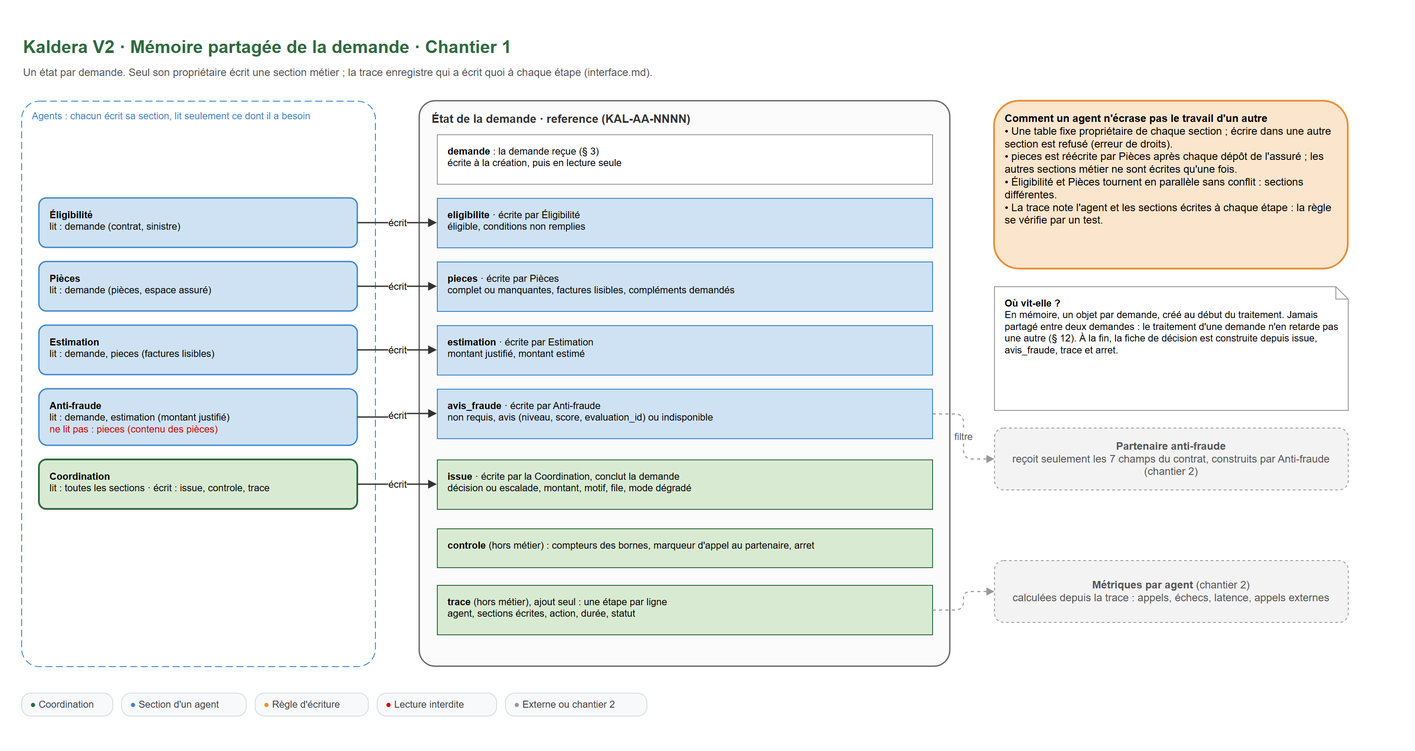
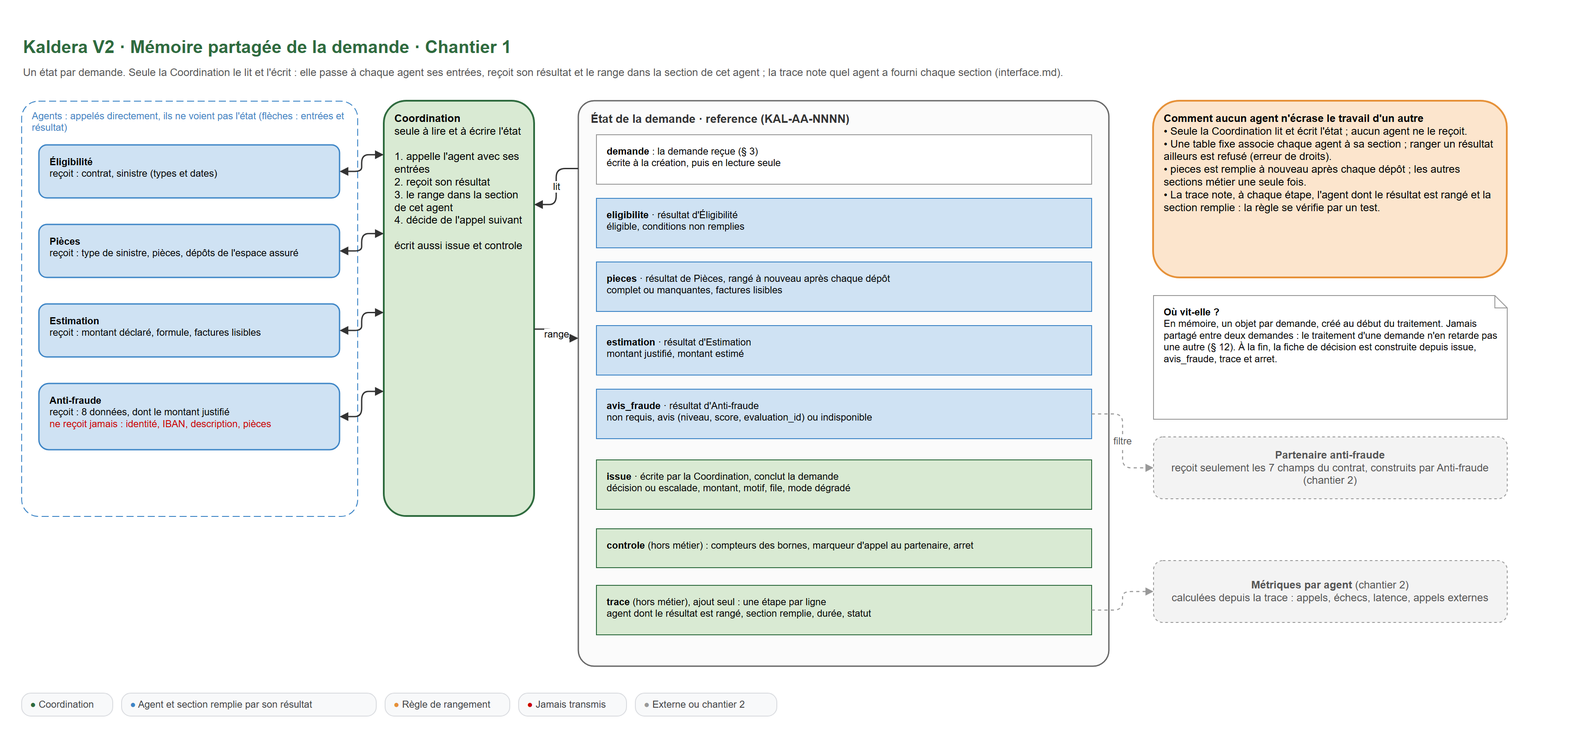
docs(chantier 1): la Coordination seule lit et ecrit l'etat de la demande
Retour du formateur sur la memoire partagee et le declenchement :
- la Coordination appelle chaque agent directement, lui passe ses entrees,
  recoit son resultat et le range dans la section de cet agent
- nouveau tableau des entrees par agent ; question du type de sinistre
  en texte libre (non : champ structure, § 3) ; agent ou outil
- droits sur la memoire refaits ; preuves de [E2] adaptees ;
  la trace reste au nom de l'agent (interface.md)
- schemas A (appel + entrees, resultat, mode degrade), 1 et 3 redessines

Changed region(s): [[0.0, 0.0312, 0.6562, 0.8729], [0.6562, 0.1247, 0.9688, 0.8729], [0.0312, 0.9353, 0.4688, 0.9665]]

diff --git a/chantier-1-equipe-orchestration.md b/chantier-1-equipe-orchestration.md
@@ -82,7 +82,7 @@ Questions associées :
 ### Rôles et frontières
 
 - [x] Quels sont exactement les agents ?
-  **Réponse.** Cinq, un par section métier de `interface.md` : **Éligibilité** (`eligibilite`), **Pièces justificatives** (`pieces`), **Estimation** (`estimation`), **Anti-fraude**, liaison avec le partenaire (`avis_fraude`), et la **Coordination** (`issue`). « Une section métier n'est écrite que par un seul agent, et un agent n'écrit qu'une seule section métier. »
+  **Réponse.** Cinq, un par section métier de `interface.md` : **Éligibilité** (`eligibilite`), **Pièces justificatives** (`pieces`), **Estimation** (`estimation`), **Anti-fraude**, liaison avec le partenaire (`avis_fraude`), et la **Coordination** (`issue`). « Une section métier n'est écrite que par un seul agent, et un agent n'écrit qu'une seule section métier. » Chaque section est remplie par le résultat d'un seul agent ; c'est la Coordination, seule à lire et à écrire l'état, qui l'y range (section 5).
   Le brief cite quatre agents (éligibilité, pièces, estimation, coordination). `interface.md` en impose un cinquième : il y a cinq sections métier, un agent par section, et la Coordination écrit déjà `issue`. La section `avis_fraude` revient donc à un agent de liaison avec le partenaire. Cet agent n'émet aucun avis : il calcule les indicateurs, appelle le partenaire et contrôle sa réponse.
 - [x] Sous quel nom chaque agent apparaît-il dans la trace ?
   **Réponse.** Un nom fixe par agent, utilisé dans le champ `agent` de la trace et comme clé des métriques de `traiter_lot` (`interface.md`) : `coordination`, `eligibilite`, `pieces`, `estimation`, `antifraude`. Changer un nom casserait la lecture des métriques.
@@ -93,7 +93,7 @@ Questions associées :
 - [x] Qui rend la décision finale, et qui rédige le motif ?
   **Réponse.** La Coordination, qui écrit la section `issue` en appliquant les règles du § 10 dans l'ordre, et rédige le motif destiné à l'assuré ou au gestionnaire (§ 11).
 - [x] Comment prouver par un test qu'un agent ne sort pas de son rôle ?
-  **Réponse.** Deux preuves. La trace : pour chaque étape, `ecrit` liste les sections écrites ; un test vérifie que chaque agent n'écrit que sa section, sur les 28 scénarios. Et un test unitaire : un agent qui tente d'écrire la section d'un autre reçoit une erreur de droits.
+  **Réponse.** Deux preuves. La trace : pour chaque étape, `agent` nomme l'agent dont le résultat a été rangé et `ecrit` la section remplie ; un test vérifie, sur les 28 scénarios, que chaque section n'est remplie que par son agent. Et deux tests unitaires : la Coordination refuse de ranger le résultat d'un agent dans une autre section (erreur de droits), et aucun agent ne reçoit l'état complet.
 
 ### Le contrat de chaque agent
 
@@ -112,11 +112,25 @@ def verifier_eligibilite(demande: Demande) -> ResultatEligibilite:
 
 | Agent | Entrée | Sortie | Erreurs possibles | Docstring (une phrase) |
 |---|---|---|---|---|
-| Éligibilité | contrat et sinistre de la demande | éligible oui ou non ; conditions non remplies | données incomplètes | Dit si le contrat couvre le sinistre, sans chiffrer |
-| Pièces justificatives | pièces, type de sinistre, dépôts de l'espace assuré | complet, ou pièces manquantes ou illisibles ; factures lisibles ; compléments demandés | données incomplètes | Dit si les pièces exigées sont présentes, lisibles et du type attendu, et demande les compléments quand la Coordination le lui confie, sans conclure la demande |
-| Estimation | montant déclaré, formule, factures lisibles | montant justifié, montant retenu, montant estimé | données incomplètes | Calcule le montant remboursable, franchise et plafond compris, sans juger la fraude |
-| Anti-fraude | champs utiles de la demande, montant justifié | non requis ; ou avis (niveau, score, indicateurs, `evaluation_id`) ; ou indisponible avec la raison | délai dépassé, erreur du service, réponse non conforme : toutes rendent « indisponible », jamais une exception | Calcule les indicateurs F1 à F4 et, si l'un est présent, obtient l'avis du partenaire en un seul appel, sans jamais émettre d'avis lui-même |
-| Coordination | toutes les sections | section `issue` ; fiche de décision | borne atteinte, agent en échec : toutes deux mènent à une escalade motivée | Délègue chaque contrôle, applique les règles de décision dans l'ordre et conclut, sans refaire aucun contrôle |
+| Éligibilité | contrat et sinistre, passés par la Coordination | éligible oui ou non ; conditions non remplies | données incomplètes | Dit si le contrat couvre le sinistre, sans chiffrer |
+| Pièces justificatives | pièces, type de sinistre, dépôts de l'espace assuré, passés par la Coordination | complet, ou pièces manquantes ou illisibles ; factures lisibles ; compléments demandés | données incomplètes | Dit si les pièces exigées sont présentes, lisibles et du type attendu, et demande les compléments quand la Coordination le lui confie, sans conclure la demande |
+| Estimation | montant déclaré, formule, factures lisibles, passés par la Coordination | montant justifié, montant retenu, montant estimé | données incomplètes | Calcule le montant remboursable, franchise et plafond compris, sans juger la fraude |
+| Anti-fraude | huit données passées par la Coordination, dont le montant justifié | non requis ; ou avis (niveau, score, indicateurs, `evaluation_id`) ; ou indisponible avec la raison | délai dépassé, erreur du service, réponse non conforme : toutes rendent « indisponible », jamais une exception | Calcule les indicateurs F1 à F4 et, si l'un est présent, obtient l'avis du partenaire en un seul appel, sans jamais émettre d'avis lui-même |
+| Coordination | l'état de la demande, qu'elle est seule à lire | section `issue`, rangement des résultats ; fiche de décision | borne atteinte, agent en échec : toutes deux mènent à une escalade motivée | Délègue chaque contrôle, applique les règles de décision dans l'ordre et conclut, sans refaire aucun contrôle |
+
+### Les entrées passées par la Coordination
+
+La Coordination est la seule à lire l'état de la demande. Elle déclenche chaque agent par un appel direct et lui passe seulement les données dont il a besoin ; l'agent renvoie son résultat, que la Coordination range dans la section de cet agent (section 5).
+
+| Agent | Données passées par la Coordination | Ce que l'agent ne reçoit jamais |
+|---|---|---|
+| Éligibilité | statut du contrat, cotisations, formule, date de souscription ; type de sinistre, date de survenance, date de déclaration | identité, IBAN, description, pièces |
+| Pièces justificatives | type de sinistre, pièces, dépôts de l'espace assuré | identité, IBAN, description, montants estimés |
+| Estimation | montant déclaré, formule, factures lisibles (résultat de Pièces) | identité, IBAN, description |
+| Anti-fraude | référence, type de sinistre, date de survenance, montant déclaré, date de souscription, sinistres sur 12 mois, code postal, montant justifié (résultat de l'Estimation) | identité, IBAN, description, pièces |
+
+- [x] Le type de sinistre est-il saisi en texte libre ?
+  **Réponse.** Non (§ 3) : `sinistre.type` est un champ structuré à quatre valeurs, et la description libre n'entre dans aucune règle. Si le type devait un jour être déduit du texte libre, ce serait un jugement : une étape de qualification en amont, candidate à un LLM avec un contrôle contre les quatre valeurs, et non une règle de l'Éligibilité.
 
 ### Garde-fous et métriques de bon fonctionnement, par agent
 
@@ -126,7 +140,7 @@ def verifier_eligibilite(demande: Demande) -> ResultatEligibilite:
 | Pièces justificatives | demandes de complément bornées (2 au plus) ; une demande de complément n'est faite que sur délégation de la Coordination, après le résultat de l'Éligibilité | part des demandes avec complément ; échecs |
 | Estimation | le montant n'est jamais négatif, jamais supérieur au plafond de la formule, arrondi au centime (NOM-05 le vérifie) | échecs ; latence |
 | Anti-fraude | filtre sortant en liste blanche ; un seul appel par dossier (marqueur écrit par la Coordination avant la délégation) ; abandon à 3 s ; réponse contrôlée avant usage (chantier 2) | appels externes, réponses écartées, part des demandes en mode dégradé |
-| Coordination | bornes vérifiées avant chaque délégation ; seule à écrire `issue` | étapes consommées par demande, bornes atteintes (`arret`), part d'escalades |
+| Coordination | bornes vérifiées avant chaque délégation ; seule à lire et à écrire l'état ; range chaque résultat dans la seule section de son agent | étapes consommées par demande, bornes atteintes (`arret`), part d'escalades |
 
 ### Le point ambigu
 
@@ -161,11 +175,11 @@ Dans ce dossier, un agent est une unité de responsabilité : un rôle, un contr
 
 | Agent | Contrôles | Nature | Où un LLM aurait du sens, en production | Place dans l'architecture et la mémoire |
 |---|---|---|---|---|
-| Éligibilité | E1 contrat actif, E2 cotisations à jour, E3 carence de 30 jours, E4 déclaration sous 30 jours (5 pour un vol), E5 garantie de la formule | règles simples : un statut, une date, une liste | aucun | écrit `eligibilite`, lue par la Coordination (règle 1) ; tourne en parallèle de Pièces |
-| Pièces justificatives | présence, lisibilité, type attendu ; demande de complément | présence et type : règles. Lisibilité : fournie par un champ dans les scénarios (`lisible`, § 3) | lire une facture scannée, vérifier qu'une photo montre bien le sinistre déclaré : le cas le plus solide pour un LLM | écrit `pieces`, seule section réécrite après chaque dépôt ; fournit les factures lisibles à l'Estimation |
-| Estimation | montant justifié, retenu, estimé ; franchise ; plafond | calcul | aucun : un montant calculé par un LLM serait un risque | écrit `estimation` ; fournit le montant justifié à l'Anti-fraude (F4) |
-| Anti-fraude | indicateurs F1 à F4 ; un appel au partenaire ; contrôle de la réponse | F1 à F4 : des seuils. L'avis : un jugement, rendu par le partenaire | le jugement existe déjà, chez le partenaire | écrit `avis_fraude` ; seul agent qui sort du système ; ne voit ni l'identité ni l'IBAN |
-| Coordination | bornes, règles du § 10 dans l'ordre, issue, motif | règles ordonnées | rédiger le motif lisible (§ 11), hors décision | écrit `issue` et `controle` ; seule à conclure |
+| Éligibilité | E1 contrat actif, E2 cotisations à jour, E3 carence de 30 jours, E4 déclaration sous 30 jours (5 pour un vol), E5 garantie de la formule | règles simples : un statut, une date, une liste | aucun | son résultat remplit `eligibilite` (règle 1) ; tourne en parallèle de Pièces |
+| Pièces justificatives | présence, lisibilité, type attendu ; demande de complément | présence et type : règles. Lisibilité : fournie par un champ dans les scénarios (`lisible`, § 3) | lire une facture scannée, vérifier qu'une photo montre bien le sinistre déclaré : le cas le plus solide pour un LLM | son résultat remplit `pieces`, seule section remplie à nouveau après chaque dépôt ; ses factures lisibles sont passées à l'Estimation |
+| Estimation | montant justifié, retenu, estimé ; franchise ; plafond | calcul | aucun : un montant calculé par un LLM serait un risque | son résultat remplit `estimation` ; son montant justifié est passé à l'Anti-fraude (F4) |
+| Anti-fraude | indicateurs F1 à F4 ; un appel au partenaire ; contrôle de la réponse | F1 à F4 : des seuils. L'avis : un jugement, rendu par le partenaire | le jugement existe déjà, chez le partenaire | son résultat remplit `avis_fraude` ; seul agent qui sort du système ; ne reçoit ni l'identité ni l'IBAN |
+| Coordination | bornes, règles du § 10 dans l'ordre, issue, motif | règles ordonnées | rédiger le motif lisible (§ 11), hors décision | seule à lire et à écrire l'état : range chaque résultat, écrit `issue` et `controle` ; seule à conclure |
 
 **Pourquoi garder des agents alors que les contrôles sont des règles ?**
 
@@ -173,8 +187,9 @@ Dans ce dossier, un agent est une unité de responsabilité : un rôle, un contr
 2. La frontière se prouve : une section, un propriétaire, vérifié dans la trace sur les 28 scénarios [E2].
 3. Le contrat ne change pas si la réalisation change. L'agent Pièces peut passer au LLM sans toucher la Coordination ni la mémoire. Trois choses changent alors : un budget de tokens (aujourd'hui « sans objet », section 4), une validation de sa sortie, et la règle « pas de relance », qui suppose un code déterministe.
 4. Les métriques se lisent par agent (appels, échecs, latence), sous un nom fixe (`interface.md`).
+5. Agent ou outil, l'architecture est la même : la Coordination appelle et reçoit un résultat. Le mot « agent » désigne ici une responsabilité métier séparée, avec son contrat, son nom dans la trace et ses métriques ; il ne suppose pas de LLM, donc pas la latence d'un appel de modèle.
 
-**Comment les agents communiquent.** Ici, les agents internes sont des fonctions appelées par la Coordination, dans le même processus : une seule équipe les maintient, et c'est le plus sûr pour tenir 10 s. Si un contrôle appartenait à un autre service de l'entreprise, il serait exposé par une API ou une interface d'agent, comme le partenaire en A2A. Ce choix dépend de l'organisation, pas des règles de décision.
+**Comment les agents communiquent.** Aucun agent ne lit la mémoire : la Coordination lui passe ses entrées et range son résultat. Ici, les agents internes sont des fonctions appelées par la Coordination, dans le même processus : une seule équipe les maintient, et c'est le plus sûr pour tenir 10 s. Si un contrôle appartenait à un autre service de l'entreprise, il serait exposé par une API ou une interface d'agent, comme le partenaire en A2A. Ce choix dépend de l'organisation, pas des règles de décision.
 
 Le schéma A montre cette architecture générale sur une seule vue.
 
@@ -182,16 +197,18 @@ Le schéma A montre cette architecture générale sur une seule vue.
 
 | Agent | Rôle | Reçoit | Renvoie | Ne fait jamais | Code ou LLM |
 |---|---|---|---|---|---|
-| Coordination | délègue, vérifie les bornes, applique les règles du § 10, conclut | toutes les sections | `issue`, fiche de décision | refaire un contrôle | code |
-| Éligibilité | conditions E1 à E5 de la spec | contrat, sinistre | éligible, conditions non remplies | chiffrer, appliquer le plafond, juger les pièces ou la fraude | code |
-| Pièces justificatives | présence, lisibilité, type attendu des pièces ; demandes de complément confiées par la Coordination | pièces, dépôts de l'espace assuré | complet ou manquantes, factures lisibles | conclure ou escalader, chiffrer, juger la fraude, décider seul d'une demande de complément | code |
-| Estimation | montant justifié, retenu, estimé ; franchise et plafond | montant déclaré, formule, factures lisibles | montants | juger la fraude, revenir sur l'éligibilité | code |
-| Anti-fraude | indicateurs F1 à F4 ; un appel au partenaire ; contrôle de la réponse | champs utiles de la demande, montant justifié | non requis, avis ou indisponible | émettre un avis en interne, envoyer une donnée hors contrat, relancer un appel | code |
+| Coordination | délègue, vérifie les bornes, range les résultats, applique les règles du § 10, conclut | l'état complet, qu'elle est seule à lire | `issue`, fiche de décision | refaire un contrôle | code |
+| Éligibilité | conditions E1 à E5 de la spec | contrat, sinistre (passés par la Coordination) | éligible, conditions non remplies | chiffrer, appliquer le plafond, juger les pièces ou la fraude | code |
+| Pièces justificatives | présence, lisibilité, type attendu des pièces ; demandes de complément confiées par la Coordination | pièces, dépôts de l'espace assuré (passés par la Coordination) | complet ou manquantes, factures lisibles | conclure ou escalader, chiffrer, juger la fraude, décider seul d'une demande de complément | code |
+| Estimation | montant justifié, retenu, estimé ; franchise et plafond | montant déclaré, formule, factures lisibles (passés par la Coordination) | montants | juger la fraude, revenir sur l'éligibilité | code |
+| Anti-fraude | indicateurs F1 à F4 ; un appel au partenaire ; contrôle de la réponse | huit données passées par la Coordination | non requis, avis ou indisponible | émettre un avis en interne, envoyer une donnée hors contrat, relancer un appel | code |
 
 ## 4. L'orchestration et la terminaison garantie [E1] [E6]
 
 - [x] Quel schéma d'orchestration : superviseur qui délègue, chaîne séquentielle, mixte ?
   **Réponse : mixte.** Un superviseur, la Coordination, délègue chaque contrôle ; les deux premiers tournent en parallèle, la suite s'enchaîne dans l'ordre de la spec. Les agents ne s'appellent jamais entre eux.
+- [x] Qui déclenche chaque agent, l'Éligibilité par exemple ?
+  **Réponse.** La Coordination, par un appel direct, avec les données dont l'agent a besoin. Aucun agent ne surveille la mémoire pour y trouver du travail : il attend d'être appelé, renvoie son résultat, et la Coordination le range avant de décider de l'appel suivant.
 - [x] Qui décide qu'une demande est terminée ?
   **Réponse.** La Coordination seule, en écrivant la section `issue` (« seule la décision conclut la demande », § 2). Elle applique les règles du § 10 dans l'ordre ; la première qui s'applique fixe l'issue.
 - [x] Quels sont les états finaux possibles ?
@@ -199,7 +216,7 @@ Le schéma A montre cette architecture générale sur une seule vue.
 - [x] Comment borne-t-on les boucles ?
   **Réponse.** Une seule boucle existe dans le parcours : la demande de complément de pièces, qui reprend le contrôle après chaque dépôt de l'assuré (§ 5). Elle est bornée par le nombre de compléments, par la détection d'un état déjà vu et par les bornes globales (étapes et durée).
 - [x] Qu'est-ce qu'une étape ?
-  **Réponse.** Une délégation de la Coordination à un agent, soit une ligne de trace. Une demande de complément, avec la lecture du dépôt de l'assuré et le nouveau contrôle des pièces, compte pour une étape. L'écriture de l'issue par la Coordination est la dernière étape.
+  **Réponse.** Une délégation de la Coordination à un agent : l'appel avec ses entrées, le résultat renvoyé et son rangement dans la section de l'agent, soit une ligne de trace. Une demande de complément, avec la lecture du dépôt de l'assuré et le nouveau contrôle des pièces, compte pour une étape. L'écriture de l'issue par la Coordination est la dernière étape.
 - [x] Quelles bornes au départ, et sur quelle base les choisit-on ?
   **Réponse :** voir le tableau ci-dessous. La durée vient de l'engagement de service ; le nombre d'étapes vient du chemin le plus long prévu par la spec et les scénarios ; le délai du partenaire vient de son contrat.
 - [x] Que se passe-t-il quand une borne est atteinte ?
@@ -242,30 +259,32 @@ Le brief demande une mémoire partagée de la demande, avec un état commun et u
 - [x] Sous quelle forme, et où vit-elle ?
   **Réponse.** En mémoire, un objet par demande, créé au début de `traiter_demande` et jamais partagé entre deux demandes : le traitement d'une demande n'en retarde pas une autre (§ 12). À la fin, la fiche de décision est construite depuis `issue`, `avis_fraude`, la trace et `arret`.
 - [x] Accès maîtrisé : qui lit et qui écrit quels champs ?
-  **Réponse :** voir le tableau ci-dessous. Chaque agent écrit sa seule section ; il lit seulement ce dont il a besoin.
+  **Réponse.** La Coordination est la seule à lire et à écrire l'état de la demande. Elle appelle chaque agent directement, en lui passant seulement les données dont il a besoin (section 3) ; l'agent ne voit pas l'état, il renvoie son résultat ; la Coordination range ce résultat dans la section de cet agent, puis décide de l'appel suivant. Voir le tableau ci-dessous.
 - [x] Comment un agent évite-t-il d'écraser le travail d'un autre ?
-  **Réponse.** Une table fixe donne le propriétaire de chaque section ; toute écriture d'un agent dans une autre section est refusée par une erreur de droits. Seul le propriétaire écrit sa section, et il peut la réécrire à une étape suivante : `pieces` est mise à jour par Pièces après chaque dépôt de l'assuré ; les autres sections métier ne sont écrites qu'une fois. Éligibilité et Pièces, qui tournent en parallèle, écrivent dans des sections différentes : aucun conflit possible. La trace enregistre l'agent et les sections écrites à chaque étape, ce qui rend la règle vérifiable par un test.
+  **Réponse.** Un agent ne peut rien écraser : il n'a aucun accès à l'état. Une table fixe associe chaque agent à sa section ; la Coordination range le résultat d'un agent dans cette seule section et refuse tout autre rangement (erreur de droits). `pieces` est remplie à nouveau après chaque dépôt de l'assuré ; les autres sections métier ne le sont qu'une fois. Éligibilité et Pièces tournent en parallèle, mais un seul composant écrit : aucun conflit possible. Chaque section métier reste alimentée par un seul agent, comme l'exige `interface.md` : la ligne de trace de l'étape porte le nom de l'agent (`agent`) et la section remplie par son résultat (`ecrit`).
 - [x] Peut-on reprendre une demande après un crash, sans la bloquer de nouveau ?
   **Réponse.** Une demande se traite en 10 s au plus : en cas de crash, elle est reprise depuis le début, les contrôles en code donnant le même résultat. **Une exception, imposée par le contrat du partenaire** : un seul appel par dossier, et un doublon est signalé comme manquement. La Coordination écrit donc le marqueur « appel au partenaire délégué » dans `controle` juste avant de déléguer l'appel ; à la reprise, un marqueur sans avis rend l'avis « indisponible » (mode dégradé), et le partenaire n'est jamais rappelé.
 - [x] Quels champs de la mémoire ne doivent jamais partir chez le partenaire ? [E3]
-  **Réponse (contrat, § 2).** L'identité et les coordonnées de l'assuré (nom, prénom, e-mail, téléphone, adresse, code postal complet), l'IBAN, l'identifiant client et le numéro de contrat, la description libre du sinistre, les pièces et leur contenu. Seuls sept champs partent, construits par l'agent Anti-fraude (chantier 2).
+  **Réponse (contrat, § 2).** L'identité et les coordonnées de l'assuré (nom, prénom, e-mail, téléphone, adresse, code postal complet), l'IBAN, l'identifiant client et le numéro de contrat, la description libre du sinistre, les pièces et leur contenu. Seuls sept champs partent, construits par l'agent Anti-fraude (chantier 2), qui ne reçoit lui-même que huit données de la Coordination.
 - [x] Où range-t-on l'identifiant de l'évaluation du partenaire ?
   **Réponse.** Dans la section `avis_fraude` : niveau, score, indicateurs, `evaluation_id` (à conserver pour audit, contrat § 3) et version du modèle. Le contrat ne prévoit qu'un appel `message/send` qui renvoie une tâche terminée : pas d'identifiant de tâche à suivre ni à annuler.
 
 ### Les droits sur la mémoire
 
-| Section de l'état | Écrite par | Lue par |
-|---|---|---|
-| `demande` (données reçues) | à la création, puis lecture seule | Éligibilité (contrat, sinistre) ; Pièces (pièces, sinistre, espace assuré) ; Estimation (montant déclaré, formule) ; Anti-fraude (sinistre, dates, historique, code postal pour le département) ; Coordination |
-| `eligibilite` | Éligibilité | Coordination |
-| `pieces` | Pièces | Estimation (factures lisibles), Coordination |
-| `estimation` | Estimation | Anti-fraude (montant justifié), Coordination |
-| `avis_fraude` | Anti-fraude | Coordination |
-| `issue` | Coordination | fiche de décision |
-| `controle` : compteurs des bornes, marqueur d'appel au partenaire, `arret` | Coordination | Coordination |
-| `trace` : une ligne par étape, ajout seul | chaque étape, au nom de l'agent qui la réalise | métriques, fiche de décision |
+Seule la Coordination lit et écrit l'état. Le tableau dit, pour chaque section, quel agent fournit le résultat et à qui la Coordination en passe ensuite le contenu.
 
-L'agent Anti-fraude ne lit ni l'identité de l'assuré, ni son IBAN, ni le contenu des pièces : il ne peut pas envoyer ce qu'il ne voit pas.
+| Section de l'état | Remplie par le résultat de | Rangée par | Contenu passé ensuite à |
+|---|---|---|---|
+| `demande` (données reçues) | à la création, puis lecture seule | Coordination | chaque agent reçoit seulement ses entrées (section 3) |
+| `eligibilite` | Éligibilité | Coordination | la Coordination (règle 1) |
+| `pieces` | Pièces (après chaque dépôt) | Coordination | l'Estimation (factures lisibles), la Coordination (règle 2) |
+| `estimation` | Estimation | Coordination | l'Anti-fraude (montant justifié), la Coordination (règles 3 et 5) |
+| `avis_fraude` | Anti-fraude | Coordination | la Coordination (règle 4) |
+| `issue` | Coordination | Coordination | la fiche de décision |
+| `controle` : compteurs des bornes, marqueur d'appel au partenaire, `arret` | Coordination | Coordination | la Coordination |
+| `trace` : une ligne par étape, ajout seul | chaque étape, au nom de l'agent dont le résultat est rangé | Coordination | métriques, fiche de décision |
+
+L'agent Anti-fraude ne reçoit ni l'identité de l'assuré, ni son IBAN, ni la description, ni les pièces : il ne peut pas envoyer ce qu'il ne reçoit pas. [E3] est ainsi tenu deux fois, à l'entrée de l'agent et à la sortie du filtre (chantier 2).
 
 ## 6. L'observabilité et le plan de preuve [E6]
 
@@ -278,11 +297,11 @@ Le partenaire peut être lent, en panne ou répondre de manière non conforme : 
 - [x] Quels éléments observe-t-on au niveau de l'équipe et de son orchestration ?
   **Réponse.** Les étapes consommées par demande, les bornes atteintes (`arret`), la part d'escalades par file, la part des demandes traitées en mode dégradé.
 - [x] Comment montrer qu'une demande a suivi le bon chemin ?
-  **Réponse.** Par sa trace : la suite des agents et des sections écrites se compare au chemin attendu par les règles du § 10.
+  **Réponse.** Par sa trace : la suite des agents et des sections remplies se compare au chemin attendu par les règles du § 10.
 - [x] Comment prouver [E1] sur tous les scénarios ?
   **Réponse.** Un test rejoue les 28 scénarios de `eval/scenarios.jsonl` et vérifie que chaque fiche porte une issue (`decision` ou `escalade`), conforme au champ `attendu`, en 10 s au plus.
 - [x] Comment prouver [E2] ?
-  **Réponse.** Sur les mêmes rejeux, un test vérifie dans la trace que chaque section métier n'est écrite que par son agent propriétaire ; un test unitaire fait écrire un agent dans une autre section et attend une erreur de droits.
+  **Réponse.** Sur les mêmes rejeux, un test vérifie dans la trace que chaque section métier n'est remplie que par le résultat de son agent. Deux tests unitaires : la Coordination refuse de ranger le résultat d'un agent dans une autre section (erreur de droits), et aucun agent ne reçoit l'état complet.
 
 Le filtre des données sortantes, la validation des réponses du partenaire et le mode dégradé sont traités au [chantier 2](chantier-2-a2a-epreuve.md).
 
@@ -294,22 +313,22 @@ Chaque cas est un scénario de `eval/scenarios.jsonl`. Une étape est une délé
 
 Situation : formule premium, dégât des eaux du 2 août 2026 déclaré le lendemain, 2 300 € déclarés ; facture lisible, photo absente ; l'assuré dépose une photo lisible après la demande de complément.
 
-| Étape | Agent | Écrit | Résultat |
+| Étape | Agent | Section remplie | Résultat |
 |---|---|---|---|
 | 1 | eligibilite | eligibilite | éligible : les cinq conditions sont remplies |
 | 2 | pieces | pieces | photo manquante |
-| 3 | pieces, sur délégation de la Coordination | pieces (réécrite) | complément adressé, photo déposée, pièces complètes |
+| 3 | pieces, sur délégation de la Coordination | pieces (remplie à nouveau) | complément adressé, photo déposée, pièces complètes |
 | 4 | estimation | estimation | justifié 2 300 €, franchise 0 €, estimé 2 300 € |
 | 5 | antifraude | avis_fraude | aucun indicateur F1 à F4 : avis non requis, aucun appel |
 | 6 | coordination | issue | règles 1 à 5 non applicables, règle 6 : acceptée |
 
-Issue : décision acceptée, 2 300 € remboursés, sans avis ni mode dégradé. Ce que le cas montre : la boucle de complément, la réécriture de `pieces` par son seul propriétaire, la décision du complément par la Coordination après l'éligibilité.
+Issue : décision acceptée, 2 300 € remboursés, sans avis ni mode dégradé. Ce que le cas montre : la boucle de complément, `pieces` remplie à nouveau par le seul résultat de Pièces, la décision du complément par la Coordination après l'éligibilité.
 
 ### Cas 2 : un contrat résilié (NOM-02, KAL-26-0102)
 
 Situation : formule essentiel, contrat au statut `resilie`, incendie de 2 400 € avec facture et photo.
 
-| Étape | Agent | Écrit | Résultat |
+| Étape | Agent | Section remplie | Résultat |
 |---|---|---|---|
 | 1 | eligibilite | eligibilite | non éligible : condition E1 (contrat actif) non remplie |
 | 2 | pieces | pieces | pièces complètes (contrôle mené en parallèle) |
@@ -321,7 +340,7 @@ Issue : décision refusée, 0 €, le motif cite la condition E1. Ce que le cas 
 
 Situation : formule essentiel (franchise 300 €, plafond 3 000 €), dégât des eaux de 4 200 € avec facture et photo.
 
-| Étape | Agent | Écrit | Résultat |
+| Étape | Agent | Section remplie | Résultat |
 |---|---|---|---|
 | 1 | eligibilite | eligibilite | éligible |
 | 2 | pieces | pieces | pièces complètes |
@@ -335,11 +354,11 @@ Issue : décision acceptée, 3 000 € remboursés. Ce que le cas montre : le pl
 
 Situation : formule confort, dégât des eaux de 1 400 € ; la facture est illisible, et le seul dépôt de l'assuré est une facture tout aussi illisible.
 
-| Étape | Agent | Écrit | Résultat |
+| Étape | Agent | Section remplie | Résultat |
 |---|---|---|---|
 | 1 | eligibilite | eligibilite | éligible |
 | 2 | pieces | pieces | facture illisible |
-| 3 | pieces, sur délégation de la Coordination | pieces (réécrite) | complément adressé, nouveau dépôt illisible : même état qu'à l'étape 2 |
+| 3 | pieces, sur délégation de la Coordination | pieces (remplie à nouveau) | complément adressé, nouveau dépôt illisible : même état qu'à l'étape 2 |
 | 4 | coordination | issue | borne « même état vu deux fois » : escalade gestionnaire |
 
 Issue : escalade, `arret` renseigné avec le nom de la borne, trace de 4 étapes. Ce que le cas montre : la boucle arrêtée par une borne, jamais un blocage silencieux.
@@ -362,7 +381,7 @@ Fondés sur `specs_metier.md` (version 3.2) et `interface.md`. Restent provisoir
 
 ### A. L'architecture générale
 
-Une seule vue : l'entrée `traiter_lot`, la Coordination, les quatre agents de contrôle et la section que chacun écrit, la mémoire partagée de la demande, l'espace assuré, le partenaire, les métriques et les deux issues possibles. Les deux encadrés de gauche résument pourquoi les contrôles restent des agents et comment ils communiquent (section 3). Fichiers : [schema-A-architecture-generale.drawio](schemas/schema-A-architecture-generale.drawio), [PNG](schemas/schema-A-architecture-generale.png).
+Une seule vue : l'entrée `traiter_lot`, la Coordination (seule à lire et à écrire la mémoire, elle appelle chaque agent et reçoit son résultat), les quatre agents de contrôle et la section que remplit le résultat de chacun, la mémoire partagée de la demande, le mode dégradé, l'espace assuré, le partenaire, les métriques et les deux issues possibles. Les deux encadrés de gauche résument pourquoi les contrôles restent des agents et comment ils communiquent (section 3). Fichiers : [schema-A-architecture-generale.drawio](schemas/schema-A-architecture-generale.drawio), [PNG](schemas/schema-A-architecture-generale.png).
 
 ![Architecture générale](schemas/schema-A-architecture-generale.png)
 
@@ -374,7 +393,7 @@ Une question métier (Q0), puis cinq questions d'architecture posées dans l'ord
 
 ### 1. La carte des agents
 
-Les cinq agents, la section que chacun écrit, ses interdits, le point ambigu tranché (le plafond) et les dépendances. Fichiers : [schema-1-carte-des-agents.drawio](schemas/schema-1-carte-des-agents.drawio), [PNG](schemas/schema-1-carte-des-agents.png).
+Les cinq agents, la section que remplit le résultat de chacun, ses interdits, le point ambigu tranché (le plafond) et les dépendances. Fichiers : [schema-1-carte-des-agents.drawio](schemas/schema-1-carte-des-agents.drawio), [PNG](schemas/schema-1-carte-des-agents.png).
 
 ![Carte des agents](schemas/schema-1-carte-des-agents.png)
 
@@ -386,6 +405,6 @@ Les règles de décision du § 10 dans l'ordre, la boucle de la demande de compl
 
 ### 3. La mémoire partagée de la demande
 
-Les sections, l'agent propriétaire de chacune, les droits de lecture, la règle d'écriture et le lieu de vie de l'état. Fichiers : [schema-3-memoire-partagee.drawio](schemas/schema-3-memoire-partagee.drawio), [PNG](schemas/schema-3-memoire-partagee.png).
+Les sections, l'agent dont le résultat remplit chacune, la Coordination seule à lire et à écrire l'état, la règle de rangement et le lieu de vie de l'état. Fichiers : [schema-3-memoire-partagee.drawio](schemas/schema-3-memoire-partagee.drawio), [PNG](schemas/schema-3-memoire-partagee.png).
 
 ![Mémoire partagée de la demande](schemas/schema-3-memoire-partagee.png)
